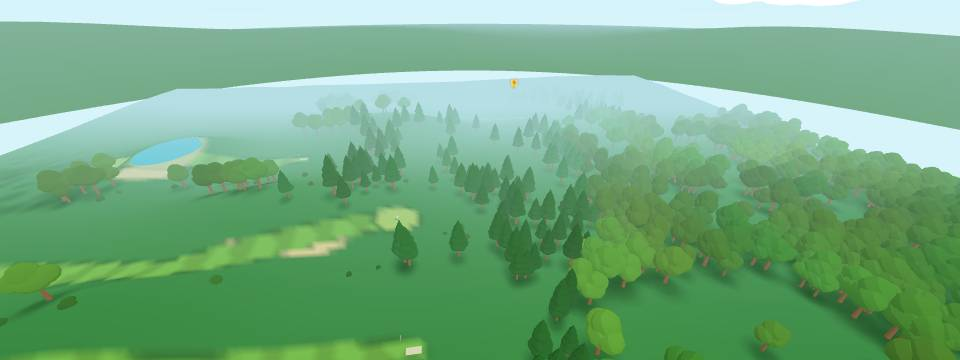
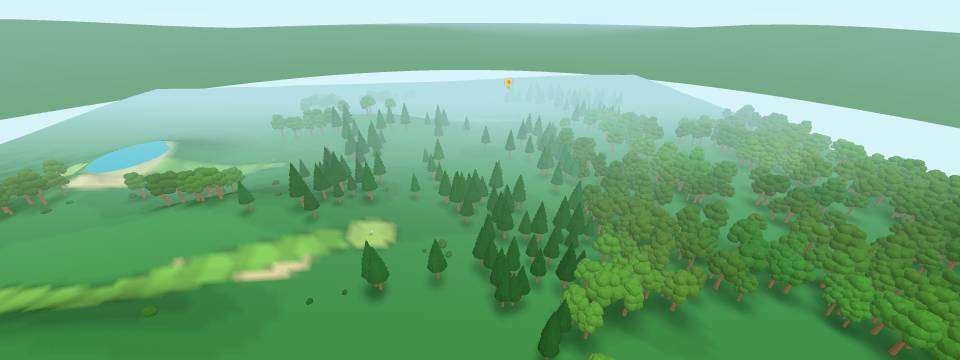
feat(textures): add layered canopy form and sheltered toon shading

diff --git a/src/course.js b/src/course.js
@@ -313,8 +313,8 @@ export function buildCourse(scene, renderer, { course: def = COURSES[0], quality
   };
 
   const trunkMat = paintDetail(toonMaterial({ color: '#986541' }), 'bark');
-  const leafMat = paintDetail(windMaterial(toonMaterial({ color: '#ffffff' }), windClock), 'leaf');
-  const pineMat = paintDetail(windMaterial(toonMaterial({ color: '#ffffff' }), windClock), 'pine');
+  const leafMat = paintDetail(windMaterial(toonMaterial({ color: '#ffffff', vertexColors: true }), windClock), 'leaf');
+  const pineMat = paintDetail(windMaterial(toonMaterial({ color: '#ffffff', vertexColors: true }), windClock), 'pine');
   const blob = (r, detail, amp) => {
     // Indexed round surfaces retain smooth vertex normals after the contour is shaped.
     const g=new THREE.SphereGeometry(r,detail===1?12:18,detail===1?7:12),p=g.attributes.position;
@@ -326,18 +326,30 @@ export function buildCourse(scene, renderer, { course: def = COURSES[0], quality
   };
   const shift = (g, x, y, z) => g.translate(x, y, z);
   const pineTrunk = shift(new THREE.CylinderGeometry(0.16, 0.34, 6, 7), 0, 3, 0);
-  // One gently scalloped crown replaces three identical geometric cone tiers.
-  const crownProfile = [[0,3.15],[1.15,3.2],[2.22,3.55],[2.34,3.95],[2.08,4.5],[1.73,5.12],
-    [1.98,5.18],[1.97,5.58],[1.65,6.18],[1.33,6.85],[1.57,6.94],[1.49,7.37],
-    [1.14,8.1],[.84,8.85],[.98,8.92],[.72,9.48],[.39,10.12],[0,11.05]];
+  // Inset frond tiers overlap inside the existing pine envelope.
+  const crownProfile = [[0,3.2],[1.3,3.35],[2.26,3.65],[1.46,4.7],
+    [2.04,4.75],[1.30,5.8],[1.76,5.85],[1.05,6.9],
+    [1.43,6.95],[.81,7.95],[1.12,8.0],[.56,8.9],
+    [.78,8.95],[.32,9.8],[.43,9.85],[0,11.05]];
   const pineLeaf = new THREE.LatheGeometry(crownProfile.map(p => new THREE.Vector2(...p)), 18);
   const crownPos = pineLeaf.attributes.position;
   for (let i=0; i<crownPos.count; i++) {
     const x=crownPos.getX(i), z=crownPos.getZ(i), y=crownPos.getY(i), a=Math.atan2(z,x);
-    const shape = 1 + Math.sin(a*5+y*1.3)*.065 + Math.sin(a*3-y)*.035;
+    const shape = .94 + Math.sin(a*7+y*1.3)*.045 + Math.sin(a*3-y)*.015;
     crownPos.setXYZ(i,x*shape,y,z*shape);
   }
   pineLeaf.computeVertexNormals();
+  const shadeCrown = (g, lightness = 1) => {
+    const n=g.attributes.normal, c=new Float32Array(n.count*3);
+    for(let i=0;i<n.count;i++) {
+      // Painted overlap shading follows each lobe, giving sheltered undersides volume.
+      // No screen-space pass or extra material; merged crowns remain one instanced draw.
+      const gain=(.64 + .36 * smooth(-.30,.75,n.getY(i))) * lightness;
+      c[i*3]=gain; c[i*3+1]=gain; c[i*3+2]=gain;
+    }
+    g.setAttribute('color',new THREE.BufferAttribute(c,3));return g;
+  };
+  shadeCrown(pineLeaf);
   const pineVariants = [pineLeaf];
   for(let variant=1;variant<3;variant++) {
     const crown=pineLeaf.clone(), p=crown.attributes.position;
@@ -347,12 +359,31 @@ export function buildCourse(scene, renderer, { course: def = COURSES[0], quality
       const inset=.90+.1*Math.sin(y*(variant===1?1.9:1.25)+a*variant)**2;
       p.setXYZ(i,x*inset,y,z*(variant===1?.94:1));
     }
-    crown.computeVertexNormals();pineVariants.push(crown);
+    crown.computeVertexNormals();shadeCrown(crown);pineVariants.push(crown);
   }
   const decTrunk = mergeGeometries([shift(new THREE.CylinderGeometry(0.2, 0.4, 4.2, 7), 0, 2.1, 0), shift(new THREE.CylinderGeometry(0.08, 0.16, 2.6, 5).rotateZ(0.6), 0.9, 4.2, 0.2), shift(new THREE.CylinderGeometry(0.08, 0.16, 2.4, 5).rotateZ(-0.7).rotateY(1.2), -0.8, 4.1, -0.4)]);
-  const bd = quality === 'low' ? 1 : 2;   // ponytail: blob detail is the main triangle cost on phones
-  const decLeaf = mergeGeometries([shift(blob(2.6, bd, .10).scale(1,.88,1),0,5.45,0),shift(blob(2.15,bd,.10),.2,7.05,.1),shift(blob(1.9,bd,.10),1.65,5.9,.6),shift(blob(1.85,bd,.10),-1.65,5.8,-.6)]);
-  const bushGeo = blob(1, 1, 0.6).scale(1, 0.75, 1).translate(0, 0.5, 0);
+  // Twelve overlapping leaf masses replace four broad smooth balloons. Total extent
+  // stays inside the previous crown; tree collision envelopes and placement are unchanged.
+  // Lite uses 48 triangles per mass (576 total, identical to its prior four spheres).
+  const leafLobes = [
+    [-1.48,4.8,-.45,1.25,.93], [.95,4.75,-1.0,1.30,.96],
+    [1.95,5.2,.48,1.22,.99], [-1.88,5.55,.55,1.20,1],
+    [-.92,6.15,-1.0,1.48,.97], [.85,6.2,-.68,1.46,1.02],
+    [1.68,6.45,.62,1.22,1.02], [-.15,6.0,1.08,1.43,1],
+    [-1.3,6.95,.55,1.27,1.02], [-.75,7.75,-.3,1.17,1.03],
+    [.95,7.70,.10,1.22,1.03], [.05,7.92,.62,1.18,1.02],
+  ];
+  const decLeaf=mergeGeometries(leafLobes.map(([x,y,z,r,gain],idx)=>{
+    const g=new THREE.SphereGeometry(r,quality==='low'?8:12,quality==='low'?4:7);
+    const p=g.attributes.position;
+    for(let i=0;i<p.count;i++) {
+      const px=p.getX(i),py=p.getY(i),pz=p.getZ(i),a=Math.atan2(pz,px);
+      const inset=.94+.045*Math.sin(a*5+idx+py*2);
+      p.setXYZ(i,px*inset,py*(.80+idx%3*.045),pz*inset);
+    }
+    g.computeVertexNormals();shadeCrown(g,gain);return g.translate(x,y,z);
+  }));
+  const bushGeo = shadeCrown(blob(1, 1, 0.6).scale(1, 0.75, 1).translate(0, 0.5, 0));
   const m = new THREE.Matrix4(), q = new THREE.Quaternion(), e = new THREE.Euler(), v = new THREE.Vector3(), sc = new THREE.Vector3();
   const inst = (geo, mat, spots, colorFn, shadow = true) => {
     const cells=new Map();

diff --git a/docs/qa/r3/texture-canopy-ab-board.html b/docs/qa/r3/texture-canopy-ab-board.html
@@ -1,0 +1,10 @@
+<!doctype html>
+<html lang="en"><meta charset="utf-8"><meta name="viewport" content="width=device-width,initial-scale=1"><title>Canopy A/B board</title>
+<style>
+*{box-sizing:border-box}body{margin:0;background:#171b20;color:#f0f2f3;font:14px system-ui,sans-serif}main{width:900px;margin:20px auto}h1{font-size:19px;margin:0 0 5px}p{color:#b9c0c6;margin:0 0 18px}.row{display:grid;grid-template-columns:430px 430px;gap:20px;margin-bottom:18px}figure{margin:0}figcaption{padding:7px 0;font-weight:650}.frame{width:430px;height:220px;overflow:hidden;position:relative;background:#40484e}.frame img{position:absolute;width:430px;height:auto;left:0;max-width:none}.current img{top:-180px}.reference img{top:0}.mask{position:absolute;background:#40484e}.current .pin{left:218px;top:58px;width:47px;height:52px}.reference .left{left:0;top:0;width:100px;height:220px}.reference .right{right:0;top:0;width:105px;height:69px}.reference .bottom{left:0;bottom:0;width:430px;height:16px}.reference .terrain{left:0;top:62px;width:171px;height:20px}.address .left{width:103px}.address .right{width:110px;height:70px}footer{font-size:12px;color:#b9c0c6;max-width:870px;line-height:1.5}
+</style><main><h1>Canopy comparison · phone width 430 px</h1><p>Anonymous scene excerpts. Images retain the same display width. Gray masks conceal interface labels.</p>
+<div class="row"><figure><figcaption>A</figcaption><div class="frame current"><img src="texture-canopy-after-high.png" alt="A canopy"><span class="mask pin"></span></div></figure><figure><figcaption>B</figcaption><div class="frame reference"><img src="switch-setup.jpg" alt="B canopy"><span class="mask left"></span><span class="mask right"></span><span class="mask bottom"></span><span class="mask terrain"></span></div></figure></div>
+<div class="row"><figure><figcaption>C</figcaption><div class="frame current"><img src="texture-canopy-after-low.png" alt="C canopy"><span class="mask pin"></span></div></figure><figure><figcaption>D</figcaption><div class="frame reference address"><img src="switch-address.jpg" alt="D canopy"><span class="mask left"></span><span class="mask right"></span><span class="mask bottom"></span><span class="mask terrain"></span></div></figure></div>
+<div class="row"><figure><figcaption>E · earlier</figcaption><div class="frame current"><img src="texture-canopy-before-high.png" alt="E canopy"><span class="mask pin"></span></div></figure><figure><figcaption>F · latest</figcaption><div class="frame current"><img src="texture-canopy-after-high.png" alt="F canopy"><span class="mask pin"></span></div></figure></div>
+<footer>View at 100% browser zoom. Canopy excerpts preserve 430 px source display width; cameras and apparent crown sizes differ. No detail has been enlarged to equalize trees. Masks and source framing are excluded from the visual judgment. Source key and independent verdict are in texture-canopy-critic.md.</footer></main></html>
+

diff --git a/docs/qa/r3/texture-canopy-critic.md b/docs/qa/r3/texture-canopy-critic.md
@@ -1,0 +1,41 @@
+# Independent canopy visual critique
+
+Reviewed: 2026-09-15. Fresh visual review of the six supplied stills. No builder acceptance text was used. No code or Git changes were made.
+
+## Verdict
+
+**The Switch reference wins. The latest Chains version wins its own before/after comparison, but does not reach reference canopy quality.** This is a still-image visual judgment, not a performance or gameplay verdict.
+
+**ONE biggest gap: the canopy still reads as an assembly of round clumps instead of a cohesive leafy mass.** In the foreground left deciduous trees, the new overlapping lobes add a useful irregular outline, but each lobe remains visibly spherical, similarly green, and similarly lit. Their repeated rounded contours dominate the small amount of surface detail. The reference's broad crowns have a more continuous leaf texture, softer irregular edges, and a stronger darker underside. At phone width, those cues produce a more convincing volume rather than a cluster of green balls.
+
+## What changed visibly
+
+- Before: large angular oval crowns make the low-poly construction immediately legible.
+- After: smaller overlapping lobes break the outline and introduce internal depth. This is a visible improvement at the supplied 430 px width, particularly on the nearest left trees.
+- The treatment changes the shape more clearly than the material impression. Added texture does not yet override the repeated clump construction.
+- High and low show essentially the same canopy improvement at this scale. I cannot honestly award high a meaningful visual advantage from these stills. The avatar differences are outside this canopy assessment.
+
+## Matched presentation and limits
+
+The [compact A/B board](texture-canopy-ab-board.html) presents image sources at **430 CSS px wide**, with no stretching, sharpening, recoloring, or enlarged detail crops. Its upper pairs use the latest high/setup and latest low/address sources. Its last pair shows before/after high. Product names are absent from the board; the key is below. HUD text is covered or excluded in the canopy excerpts. The reference's large HUD requires neutral masks; these masks are visible and do not count as scene quality.
+
+The source cameras, tree species, aspect ratios, and apparent crown sizes differ. This is a comparison of the supplied scenes at equal phone display width, not an identical-camera or equal-object-size experiment. The reference is compressed source imagery. Even with those limits, its central broadleaf crown still communicates the stronger foliage material and volume. The full Chains viewport spends more of its width on conifers; their smaller coverage should not be mistaken for proof of inferior leaf detail.
+
+Board key: A = Chains after high; B = Switch setup; C = Chains after low; D = Switch address; E = Chains before high; F = Chains after high. Before low was also inspected directly and supports the same conclusion.
+
+## Next visual target
+
+Keep the improved outline, but make the nearest broadleaf tree read as one crown at 430 px: fewer equally prominent round lobes, a coherent darker underside, and leaf-scale variation across the crown that does not stop at each lobe boundary. Judge that single tree against the reference before accepting another general texture pass. This is a recommended direction, not a claim that an unbuilt change will succeed.
+
+## Geometry evidence — separate from the visual verdict
+
+The supplied before/after JSON reports the following. These figures did not determine the visual winner.
+
+| Metric | Low before → after | High before → after |
+|---|---:|---:|
+| Reported tree triangles | 2,041,388 → 1,929,716 | 3,657,212 → 3,776,372 |
+| Rendered frame triangles | 858,086 → 837,134 | 1,095,914 → 1,110,242 |
+| Rendered calls | 113 → 113 | 92 → 92 |
+| Reported tree draws | 263 → 263 | 263 → 263 |
+
+Low rendered triangles fall by 20,952; high rendered triangles rise by 14,328. Both supplied captures report no errors. Triangle counts and a single captured frame do not establish frame rate, thermal behavior, or a mobile performance pass. No numerical geometry budget was provided to this critic, so no budget acceptance is claimed.

diff --git a/docs/qa/r3/texture-canopy-builder.md b/docs/qa/r3/texture-canopy-builder.md
@@ -1,0 +1,32 @@
+# Canopy structure iteration
+
+The texture critic's largest remaining gap was overlapping leaf/frond volume. This follow-up changes foliage geometry and vertex colours in `src/course.js`; the painted tiles, terrain, tree positions, collision envelopes and physics stay as they were.
+
+## Changes
+
+- Twelve smaller overlapping deciduous masses replace four large spherical masses. Their combined extent stays inside the previous crown bounds. Each has a slightly scalloped contour and softly painted darker underside.
+- Pine fronds overlap through six inset tiers. The silhouette remains inside the prior pine envelope, and its triangle count decreases.
+- Vertex colours supply the sheltered underside value on the existing toon materials. There are no new render passes, texture downloads or draw batches. The separate leaf/pine detail textures remain bound.
+- Lite uses 48 triangles per leaf mass, 576 per deciduous crown, equal to its previous four-sphere total. Full uses 1,728 rather than 1,584 per deciduous crown.
+
+## Matched capture measurements
+
+Pine Hollow, one player, settled aim camera, 430 × 932 CSS pixels, desktop Chromium. These are scene/render counts, **not real-phone frame-rate measurements**.
+
+| Measurement | Lite before | Lite after | Full before | Full after |
+|---|---:|---:|---:|---:|
+| All instanced triangles in scene | 2,041,388 | 1,929,716 | 3,657,212 | 3,776,372 |
+| Instanced batches in scene | 263 | 263 | 263 | 263 |
+| Frame draw calls | 113 | 113 | 92 | 92 |
+| Frame triangles | 858,086 | 837,134 | 1,095,914 | 1,110,242 |
+| JavaScript / shader errors | 0 | 0 | 0 | 0 |
+
+Full's total instanced triangle increase is 3.3%; Lite decreases 5.5%. Capture camera/animation timing can affect frame counts, so whole-scene counts are the stable topology comparison. No runtime asset bytes were added by this iteration.
+
+`node test/physics.test.mjs` passes all ten throws, both hands and two powers. `node --check src/course.js` passes.
+
+Reproduce captures with `PLAYWRIGHT_MODULE` pointing to Playwright and `CANOPY_STAGE=before` or `after`, then `node tools/texture-canopy-verify.mjs`. JSON files record both qualities. The before captures were taken before source changes; after captures show the current source.
+
+## Visual evidence and review
+
+`texture-canopy-before-{high,low}.png` and `texture-canopy-after-{high,low}.png` show the same aim scene. The new leaf clusters and sheltered overlaps are visibly distinct from the former broad crown faces. A separate critic must decide the comparison winner; this builder makes no reference-win claim.

diff --git a/docs/decisions.md b/docs/decisions.md
@@ -137,3 +137,9 @@
 - `src/throw-poses.js` supplies the same poses to Lite and Blender. The phase contract stays 0–0.5 windup, exactly 0.62 release and 0.5–1 follow-through. Actual backhand, forehand, hammer, scoober and putt footage observations, plus blade/bank derivation limits, are recorded in `animation-authoring.md`; these are authored clips, not motion capture.
 - The separate critic's first finding removed per-segment smoothstep stops at release. Monotone Hermite curves carry joint velocity through 0.62. Its next finding led to deeper knee loading, braced lead legs and lifted trailing feet. A shared vertical support correction keeps the lowest sole on the floor without moving the authoritative lie in X/Z. The critic accepted both fixes in phone-size RH/LH playback; it still prefers Switch Sports overall and identifies glove/torso silhouette overlap as further polish.
 - `test/animation.test.mjs` verifies twenty distinct throw clips, 1,100 authored joint samples, positive transforms, continuous nonzero release velocity and 2,020 support samples. Runtime comparison checks both real rigs across every throw and hand. Added physics regressions for all ten throws at two powers in both hands; corrected left-handed overhand turnover by mirroring its roll rate with spin. Existing right-handed flight remains unchanged.
+
+### Canopy follow-up to texture criticism
+
+- Addressed the remaining canopy-volume finding with smaller overlapping deciduous masses, inset pine frond tiers and darker sheltered undersides on the existing toon materials. Tree placement, collision envelopes, playable terrain and downloadable assets remain unchanged. The new visual extents fit within the previous crowns.
+- Kept Lite deciduous geometry at 576 triangles per crown and the same draw batches. Whole-scene instanced triangles decreased 5.5% in Lite and increased 3.3% in Full; these counts are not phone frame-rate measurements.
+- A new independent critic prefers this revision to its before image but still selects Switch Sports. Its largest remaining gap is the repeated spherical-clump appearance versus a cohesive leafy mass. The requested reference-beating quality target remains unmet; reviewed improvements and remaining limits are preserved without inventing a win.
